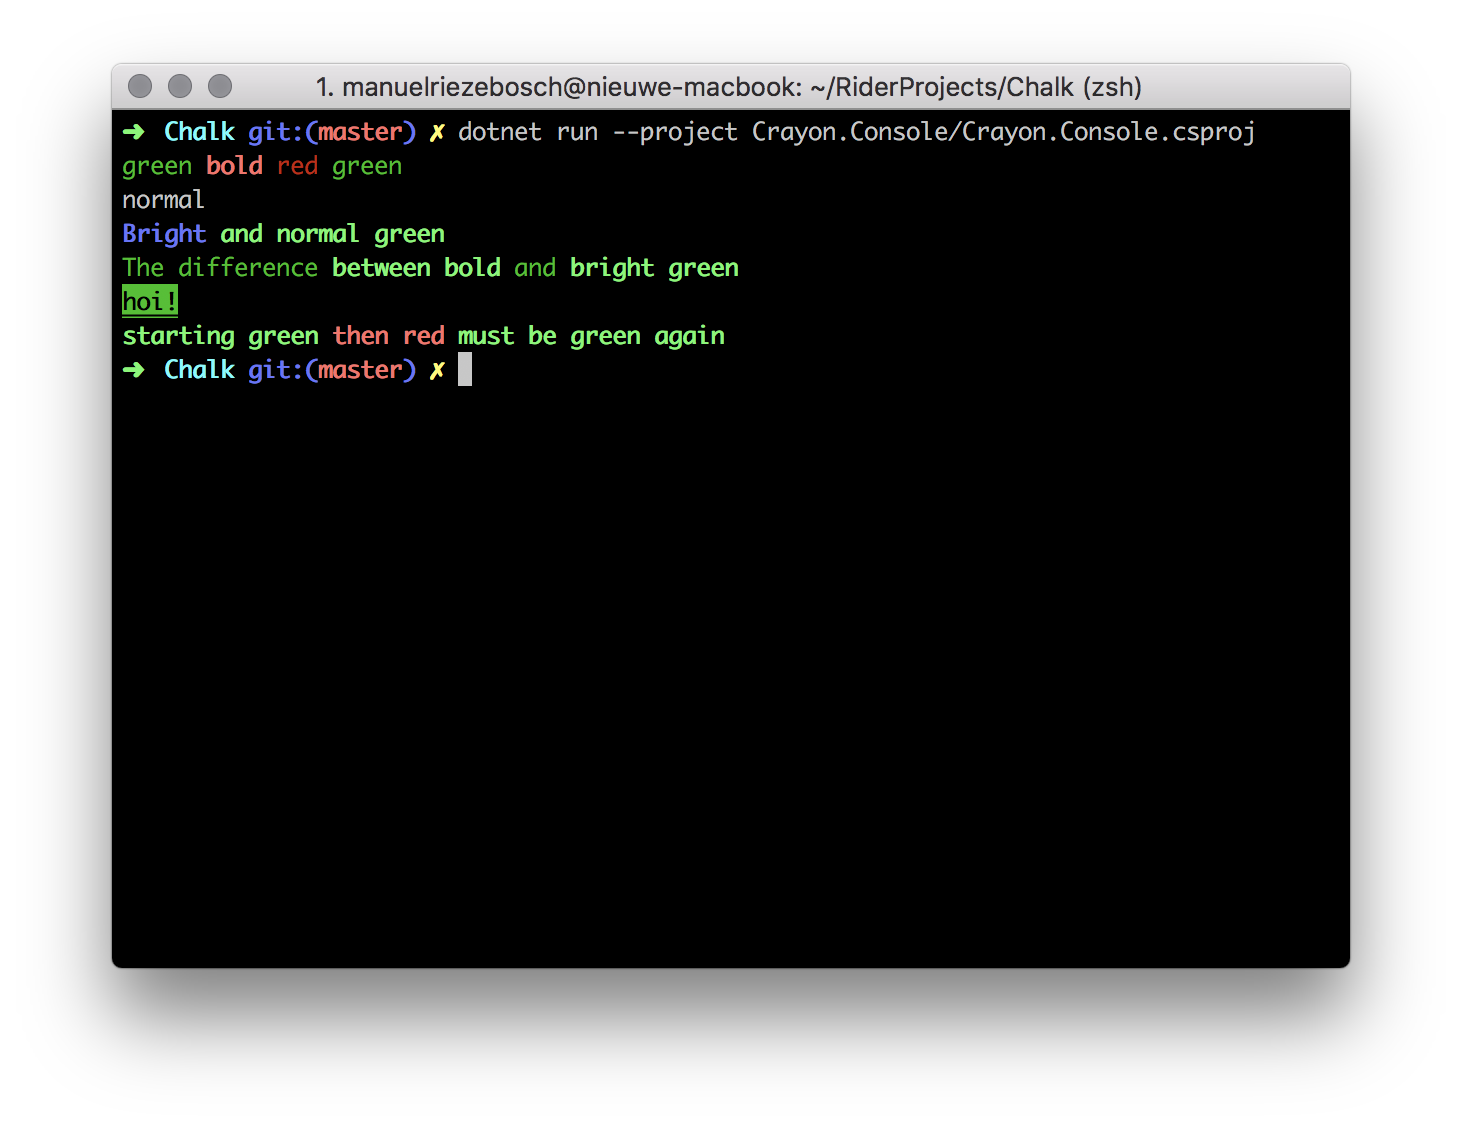
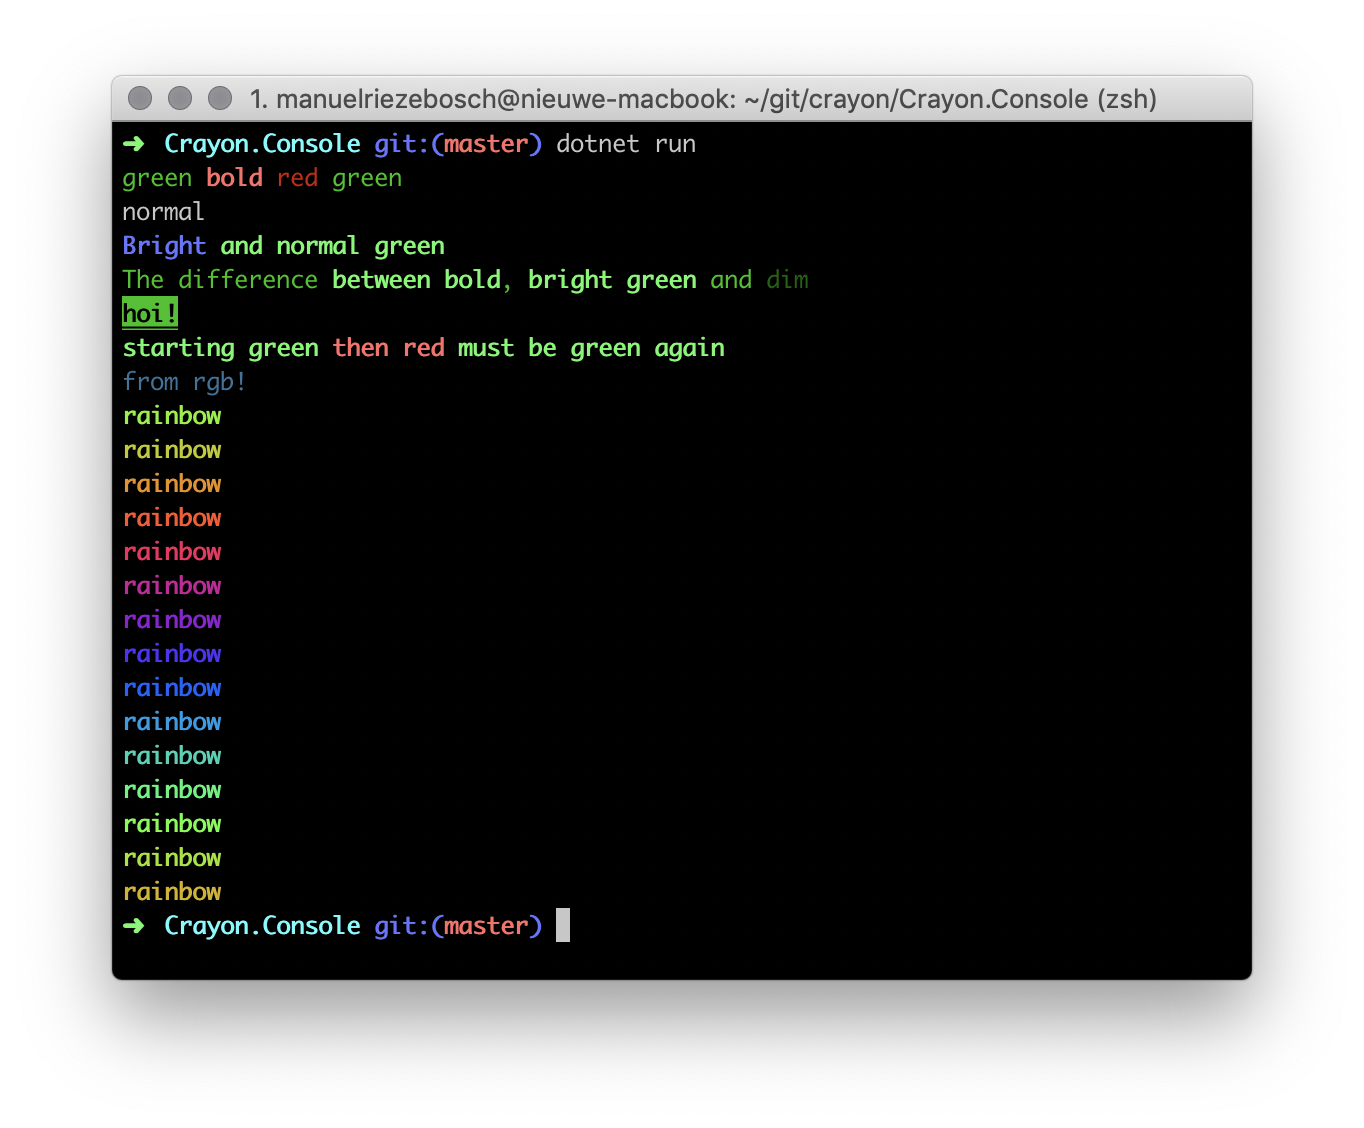
refactor(rainbow): separate class

Changed region(s): [[0.0616, 0.0621, 0.9238, 0.8688], [0.5235, 0.2482, 0.5543, 0.2793]]

diff --git a/Crayon.Console/Program.cs b/Crayon.Console/Program.cs
@@ -5,30 +5,28 @@ using System.Drawing;
 
 namespace Crayon.ConsoleApp
 {
-    class Program
+    static class Program
     {
-        static void Main(string[] args)
+        private static void Main(string[] args)
         {
             Console.WriteLine(Output.Green($"green {Output.Red($"{Output.Bold("bold")} red")} green"));
             Console.WriteLine("normal");
             Console.WriteLine(Output.BrightBlue($"Bright {Output.Green("and normal green")}"));
 
-            Console.WriteLine(Output.Green($"The difference {Output.Bold("between bold")}, {Output.BrightGreen("bright green")} and {Output.Dim("dim")}"));
+            Console.WriteLine(Output.Green(
+                $"The difference {Output.Bold("between bold")}, {Output.BrightGreen("bright green")} and {Output.Dim("dim")}"));
 
             Console.WriteLine(Output.Green().Bold().Underline().Reversed().Text("hoi!"));
 
-            Console.WriteLine(Output.Bold().Green().Text($"starting green {Output.Red("then red")} must be green again"));
+            Console.WriteLine(
+                Output.Bold().Green().Text($"starting green {Output.Red("then red")} must be green again"));
 
             Console.WriteLine(Output.FromRgb(55, 115, 155).Text("from rgb!"));
 
-            for (var i = 0; i < 10; i++)
+            var rainbow = new Rainbow(0.5);
+            for (var i = 0; i < 15; i++)
             {
-                Console.WriteLine(Output.Rainbow(.5, i).Text("rainbows"));
-            }
-            
-            foreach(var item in Output.Rainbow(.5, new[]{ "first", "second", "third"}))
-            {
-                Console.WriteLine(item);
+                Console.WriteLine(rainbow.Next().Bold().Text("rainbow"));
             }
         }
     }

diff --git a/Crayon.Tests/OutputTests.cs b/Crayon.Tests/OutputTests.cs
@@ -18,6 +18,7 @@ namespace Crayon.Tests
         {
             Output.Enable();
         }
+        
         [Fact]
         public void TestGreen()
         {
@@ -127,38 +128,6 @@ namespace Crayon.Tests
                 .Where(s => !s.GetParameters().Any()).Select(s => s.Name);
 
             decorations.Should().BeSubsetOf(methods);
-        }
-
-        [Fact]
-        public void TestRainbow()
-        {
-            Output.Rainbow(.5, 1).Text("rainbow").Should().Be("\u001b[38;2;189;204;4mrainbow\u001b[0m");
-        }
-
-        [Fact]
-        public void NestingRainbow()
-        {
-            Output.Rainbow(.5, 1).Text($"rainbow {Output.Red("red ")} rainbow").Should()
-                .Be("\u001b[38;2;189;204;4mrainbow \u001b[31mred \u001b[0m\u001b[38;2;189;204;4m rainbow\u001b[0m");
-        }
-
-        [Fact]
-        public void RainbowForLoopAndItteratorSame()
-        {
-            var test = new[]
-            {
-                "a",
-                "b",
-                "c"
-            };
-            
-            var result = Output.Rainbow(.5, test);
-            result.Should().BeEquivalentTo(new[]
-            {
-                "\u001b[38;2;128;243;32ma\u001b[0m",
-                "\u001b[38;2;189;204;4mb\u001b[0m",
-                "\u001b[38;2;235;146;6mc\u001b[0m"
-            });
         }
     }
 }

diff --git a/Crayon/Output.cs b/Crayon/Output.cs
@@ -101,16 +101,6 @@ namespace Crayon
         /// <returns>Unicode color escaped string with reset at the end.</returns>
         /// <param name="freq">The frequency of sine wave, how quickly each color changes.</param>
         /// <param name="idx">The item index in loop, can go up or down.</param>
-        public static IOutput Rainbow(double freq, int idx)
-        {
-            var r = Convert.ToByte(Math.Round(Math.Sin(freq * idx) * 127 + 128));
-            var g = Convert.ToByte(Math.Round(Math.Sin(freq * idx + 2) * 127 + 128));
-            var b = Convert.ToByte(Math.Round(Math.Sin(freq * idx + 4) * 127 + 128));
-            
-            return FromRgb(r, g, b);
-        }
 
-        public static IEnumerable<string> Rainbow(double freq, IEnumerable<string> items) => 
-            items.Select((item, idx) => Rainbow(freq, idx).Text(item));
     }
 }

diff --git a/Crayon/OutputChain.cs b/Crayon/OutputChain.cs
@@ -1,5 +1,3 @@
-using System;
-
 namespace Crayon
 {
     internal class OutputChain : IOutput
@@ -36,13 +34,6 @@ namespace Crayon
         public IOutput Cyan() => AppendFormat(Colors.Cyan);
         public IOutput White() => AppendFormat(Colors.White);
         public IOutput FromRgb(byte r, byte g, byte b) => AppendFormat($"\u001b[38;2;{r};{g};{b}m");
-        public IOutput Rainbow(double freq, int idx)
-        {
-            var r = Convert.ToByte(Math.Round(Math.Sin(freq * idx) * 127 + 128));
-            var g = Convert.ToByte(Math.Round(Math.Sin(freq * idx + 2) * 127 + 128));
-            var b = Convert.ToByte(Math.Round(Math.Sin(freq * idx + 4) * 127 + 128));
-            return FromRgb(r, g, b);
-        }
 
         public IOutput Bold() => AppendFormat(Decorations.Bold);
         public IOutput Dim() => AppendFormat(Decorations.Dim);

diff --git a/Crayon.Tests/RainbowTests.cs b/Crayon.Tests/RainbowTests.cs
@@ -1,0 +1,32 @@
+using System.Linq;
+using FluentAssertions;
+using Xunit;
+
+namespace Crayon.Tests
+{
+    [Collection("color")]
+    public class RainbowTests
+    {
+        public RainbowTests()
+        {
+            Output.Enable();
+        }
+        
+        [Fact]
+        public void Test()
+        {
+            var rainbow = new Rainbow(0.5);
+            new[]
+            {
+                "a",
+                "b",
+                "c"
+            }.Select(x => rainbow.Next().Text(x))
+            .Should()
+            .BeEquivalentTo(
+                "\u001b[38;2;128;243;32ma\u001b[0m", 
+                "\u001b[38;2;189;204;4mb\u001b[0m",
+                "\u001b[38;2;235;146;6mc\u001b[0m");
+        }
+    }
+}

diff --git a/Crayon/Rainbow.cs b/Crayon/Rainbow.cs
@@ -1,0 +1,26 @@
+using System;
+
+namespace Crayon
+{
+    public class Rainbow
+    {
+        private readonly double _freq;
+        private int _idx;
+
+        public Rainbow(double freq)
+        {
+            _freq = freq;
+        }
+
+        public IOutput Next() => ToRainbow(_freq, _idx++);
+
+        private static IOutput ToRainbow(double freq, int idx)
+        {
+            var r = Convert.ToByte(Math.Round(Math.Sin(freq * idx) * 127 + 128));
+            var g = Convert.ToByte(Math.Round(Math.Sin(freq * idx + 2) * 127 + 128));
+            var b = Convert.ToByte(Math.Round(Math.Sin(freq * idx + 4) * 127 + 128));
+            
+            return Output.FromRgb(r, g, b);
+        }
+    }
+}

diff --git a/Crayon/OutputChainNoColor.cs b/Crayon/OutputChainNoColor.cs
@@ -29,7 +29,5 @@ namespace Crayon
         public string Text(string input) => input;
 
         public IOutput FromRgb(byte r, byte g, byte b) => this;
-
-        public IOutput Rainbow(double freq, int idx) => this;
     }
 }

diff --git a/Crayon/IOutput.cs b/Crayon/IOutput.cs
@@ -16,6 +16,5 @@ namespace Crayon
         IOutput Reversed();
         string Text(string input);
         IOutput FromRgb(byte r, byte g, byte b);
-        IOutput Rainbow(double freq, int index);
     }
 }

diff --git a/README.md b/README.md
@@ -6,7 +6,7 @@ An easy peasy tiny library for coloring console output in inline strings using A
 
 ## Examples
 
-```cs
+```c#
 Console.WriteLine(Output.Green($"green {Output.Red($"{Output.Bold("bold")} red")} green"));
 Console.WriteLine("normal");
 Console.WriteLine(Output.BrightBlue($"Bright {Output.Green("and normal green")}"));
@@ -23,9 +23,21 @@ The static methods accepting string input `Output.Red("input")` return formatted
 
 Or building up a formatter using `Output.Bold().Red().Text("input")` where the string is only returned after closing with the `Text` method. This can also be mixed with interpolated strings.
 
+## Rainbows 🌈
+
+Thanks to [DevinR528](https://github.com/devinRagotzy) we now have rainbows!
+
+```c#
+var rainbow = new Rainbow(0.5);
+for(var i = 0; i < 15; i++)
+{
+    Console.WriteLine(rainbow.Next().Bold().Text("rainbow"));
+}
+```
+
 ## How compatible is it?
 
-It works fine on evertyhing except for older Windows versions.
+It works fine on everything except for older Windows versions.
 
 ## Credits
 
